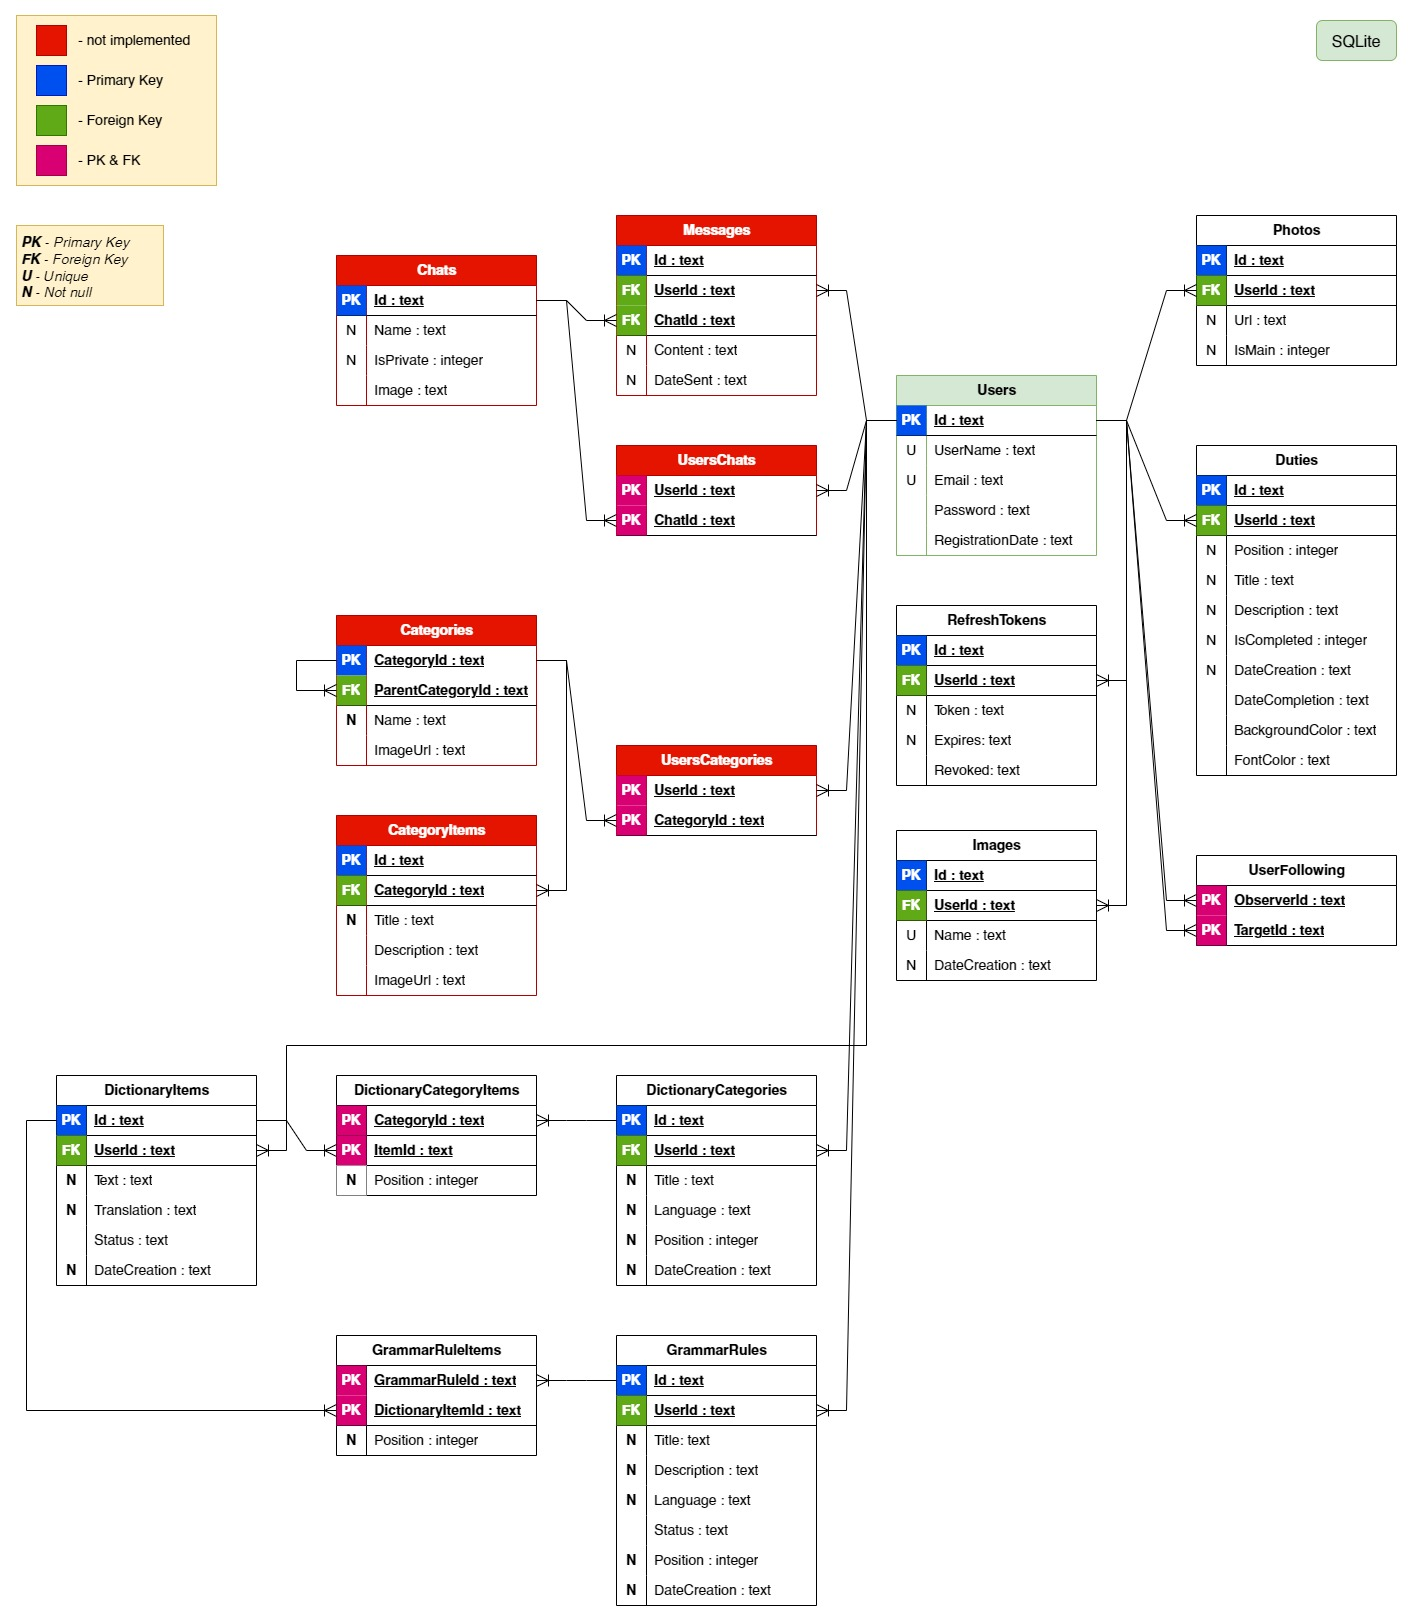
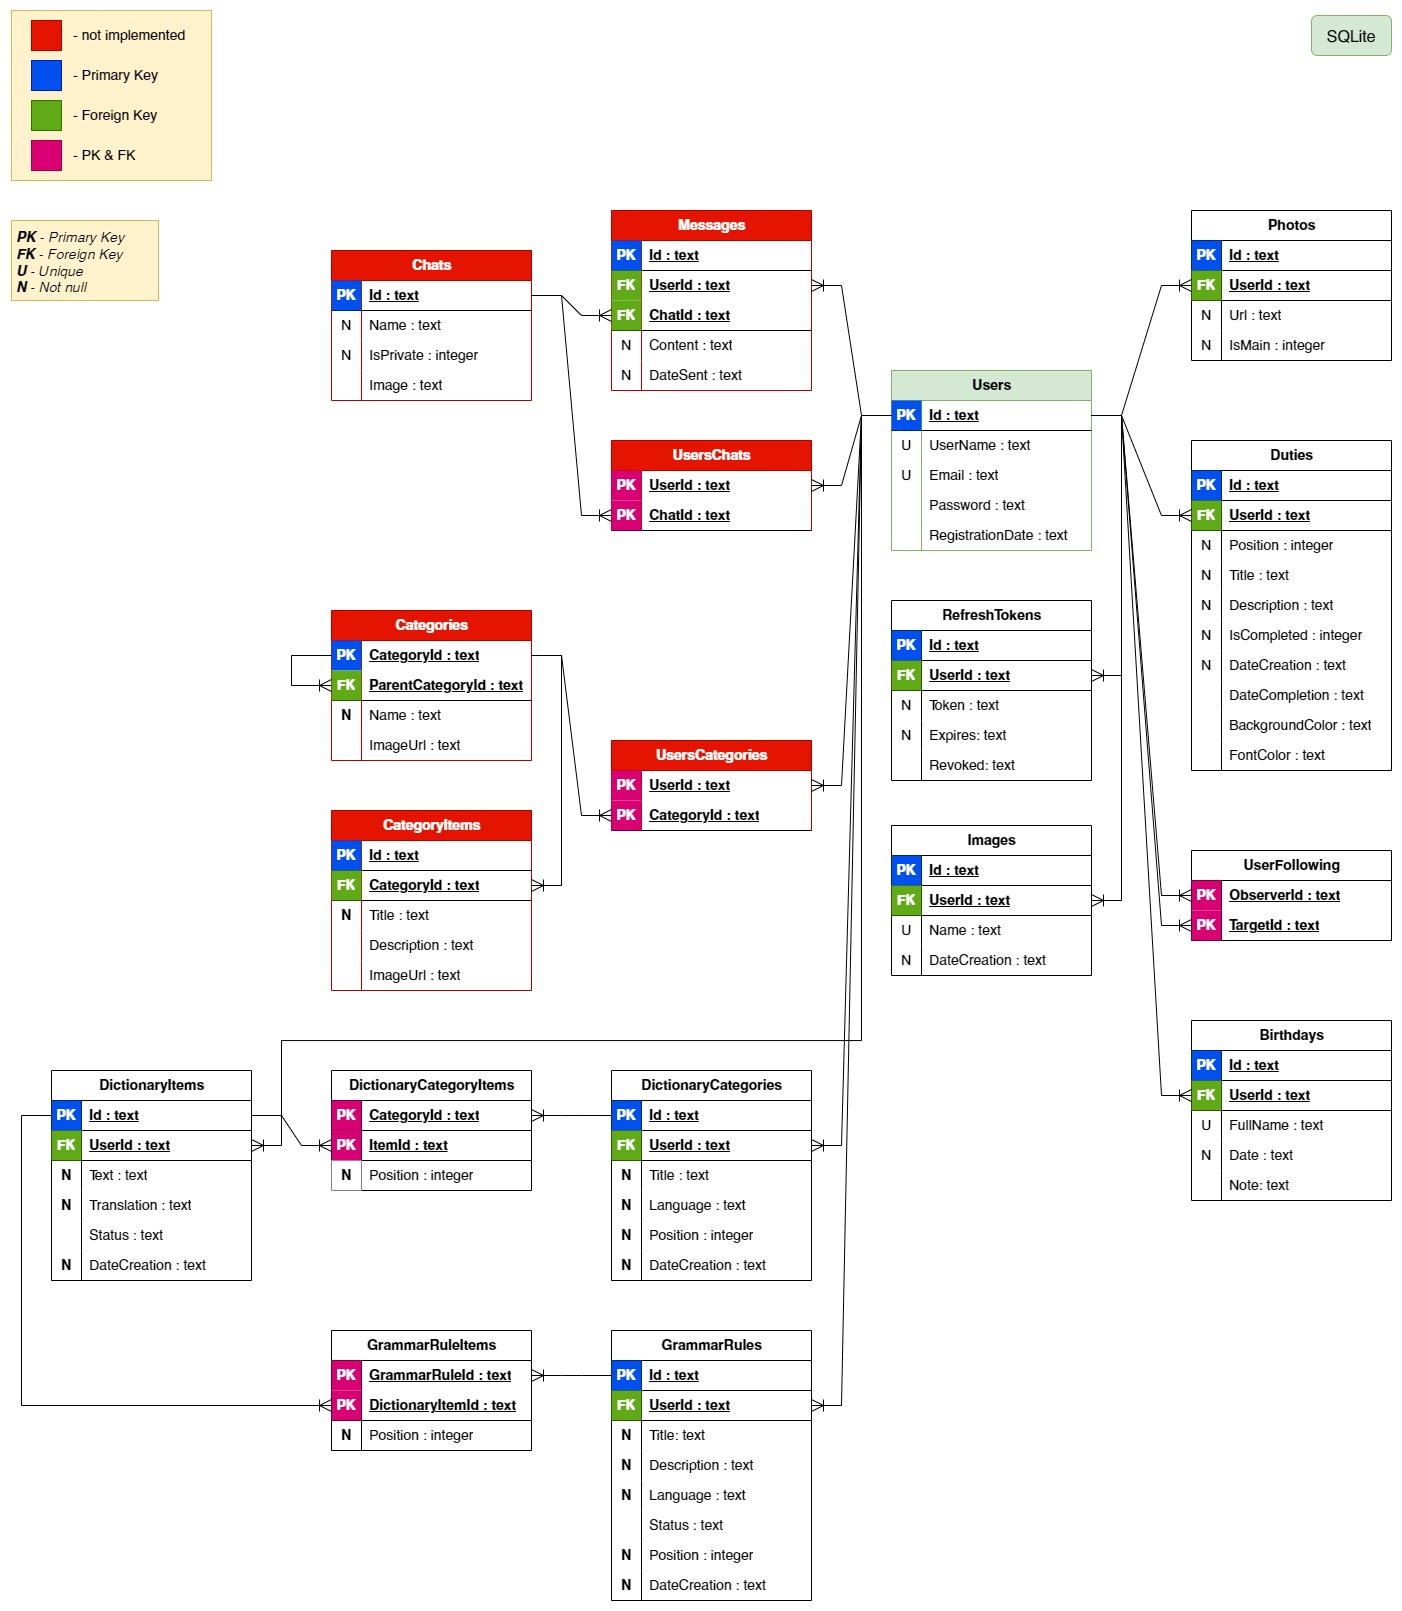
added Birthdays table

diff --git a/server/Persistence/DataContext.cs b/server/Persistence/DataContext.cs
@@ -16,6 +16,7 @@ public class DataContext : IdentityDbContext<AppUser>
     public DbSet<DictionaryCategoryItem> DictionaryCategoryItems { get; set; }
     public DbSet<GrammarRule> GrammarRules { get; set; }
     public DbSet<GrammarRuleItem> GrammarRuleItems { get; set; }
+    public DbSet<Birthday> Birthdays { get; set; }
 
     public DataContext(DbContextOptions options) : base(options)
     {
@@ -32,5 +33,6 @@ public class DataContext : IdentityDbContext<AppUser>
         builder.ApplyConfiguration(new ImageConfiguration());
         builder.ApplyConfiguration(new GrammarRuleItemConfiguration());
         builder.ApplyConfiguration(new DictionaryCategoryItemConfiguration());
+        builder.ApplyConfiguration(new BirthdayConfiguration());
     }
 }

diff --git a/server/Persistence/Configurations/BirthdayConfiguration.cs b/server/Persistence/Configurations/BirthdayConfiguration.cs
@@ -1,0 +1,20 @@
+using Domain;
+using Microsoft.EntityFrameworkCore;
+using Microsoft.EntityFrameworkCore.Metadata.Builders;
+
+namespace Persistence.Configurations;
+
+public class BirthdayConfiguration : IEntityTypeConfiguration<Birthday>
+{
+    public void Configure(EntityTypeBuilder<Birthday> builder)
+    {
+        builder
+            .HasIndex(birthday => birthday.FullName)
+            .IsUnique();
+
+        builder
+            .HasOne(birthday => birthday.AppUser)
+            .WithMany(user => user.Birthdays)
+            .OnDelete(DeleteBehavior.Cascade);
+    }
+}

diff --git a/server/Domain/AppUser.cs b/server/Domain/AppUser.cs
@@ -12,6 +12,7 @@ public class AppUser : IdentityUser
     public ICollection<UserFollowing> Followings { get; set; }
     public ICollection<UserFollowing> Followers { get; set; }
     public ICollection<Image> Images { get; set; }
+    public ICollection<Birthday> Birthdays { get; set; }
 
     public AppUser()
     {
@@ -21,5 +22,6 @@ public class AppUser : IdentityUser
         Followings = new List<UserFollowing>();
         Followers = new List<UserFollowing>();
         Images = new List<Image>();
+        Birthdays = new List<Birthday>();
     }
 }

diff --git a/server/Domain/Birthday.cs b/server/Domain/Birthday.cs
@@ -1,0 +1,13 @@
+namespace Domain;
+
+public class Birthday
+{
+    public Guid Id { get; set; }
+    public string FullName { get; set; }
+    public DateTime Date { get; set; }
+#nullable enable
+    public string? Note { get; set; }
+#nullable disable
+
+    public AppUser AppUser { get; set; }
+}
